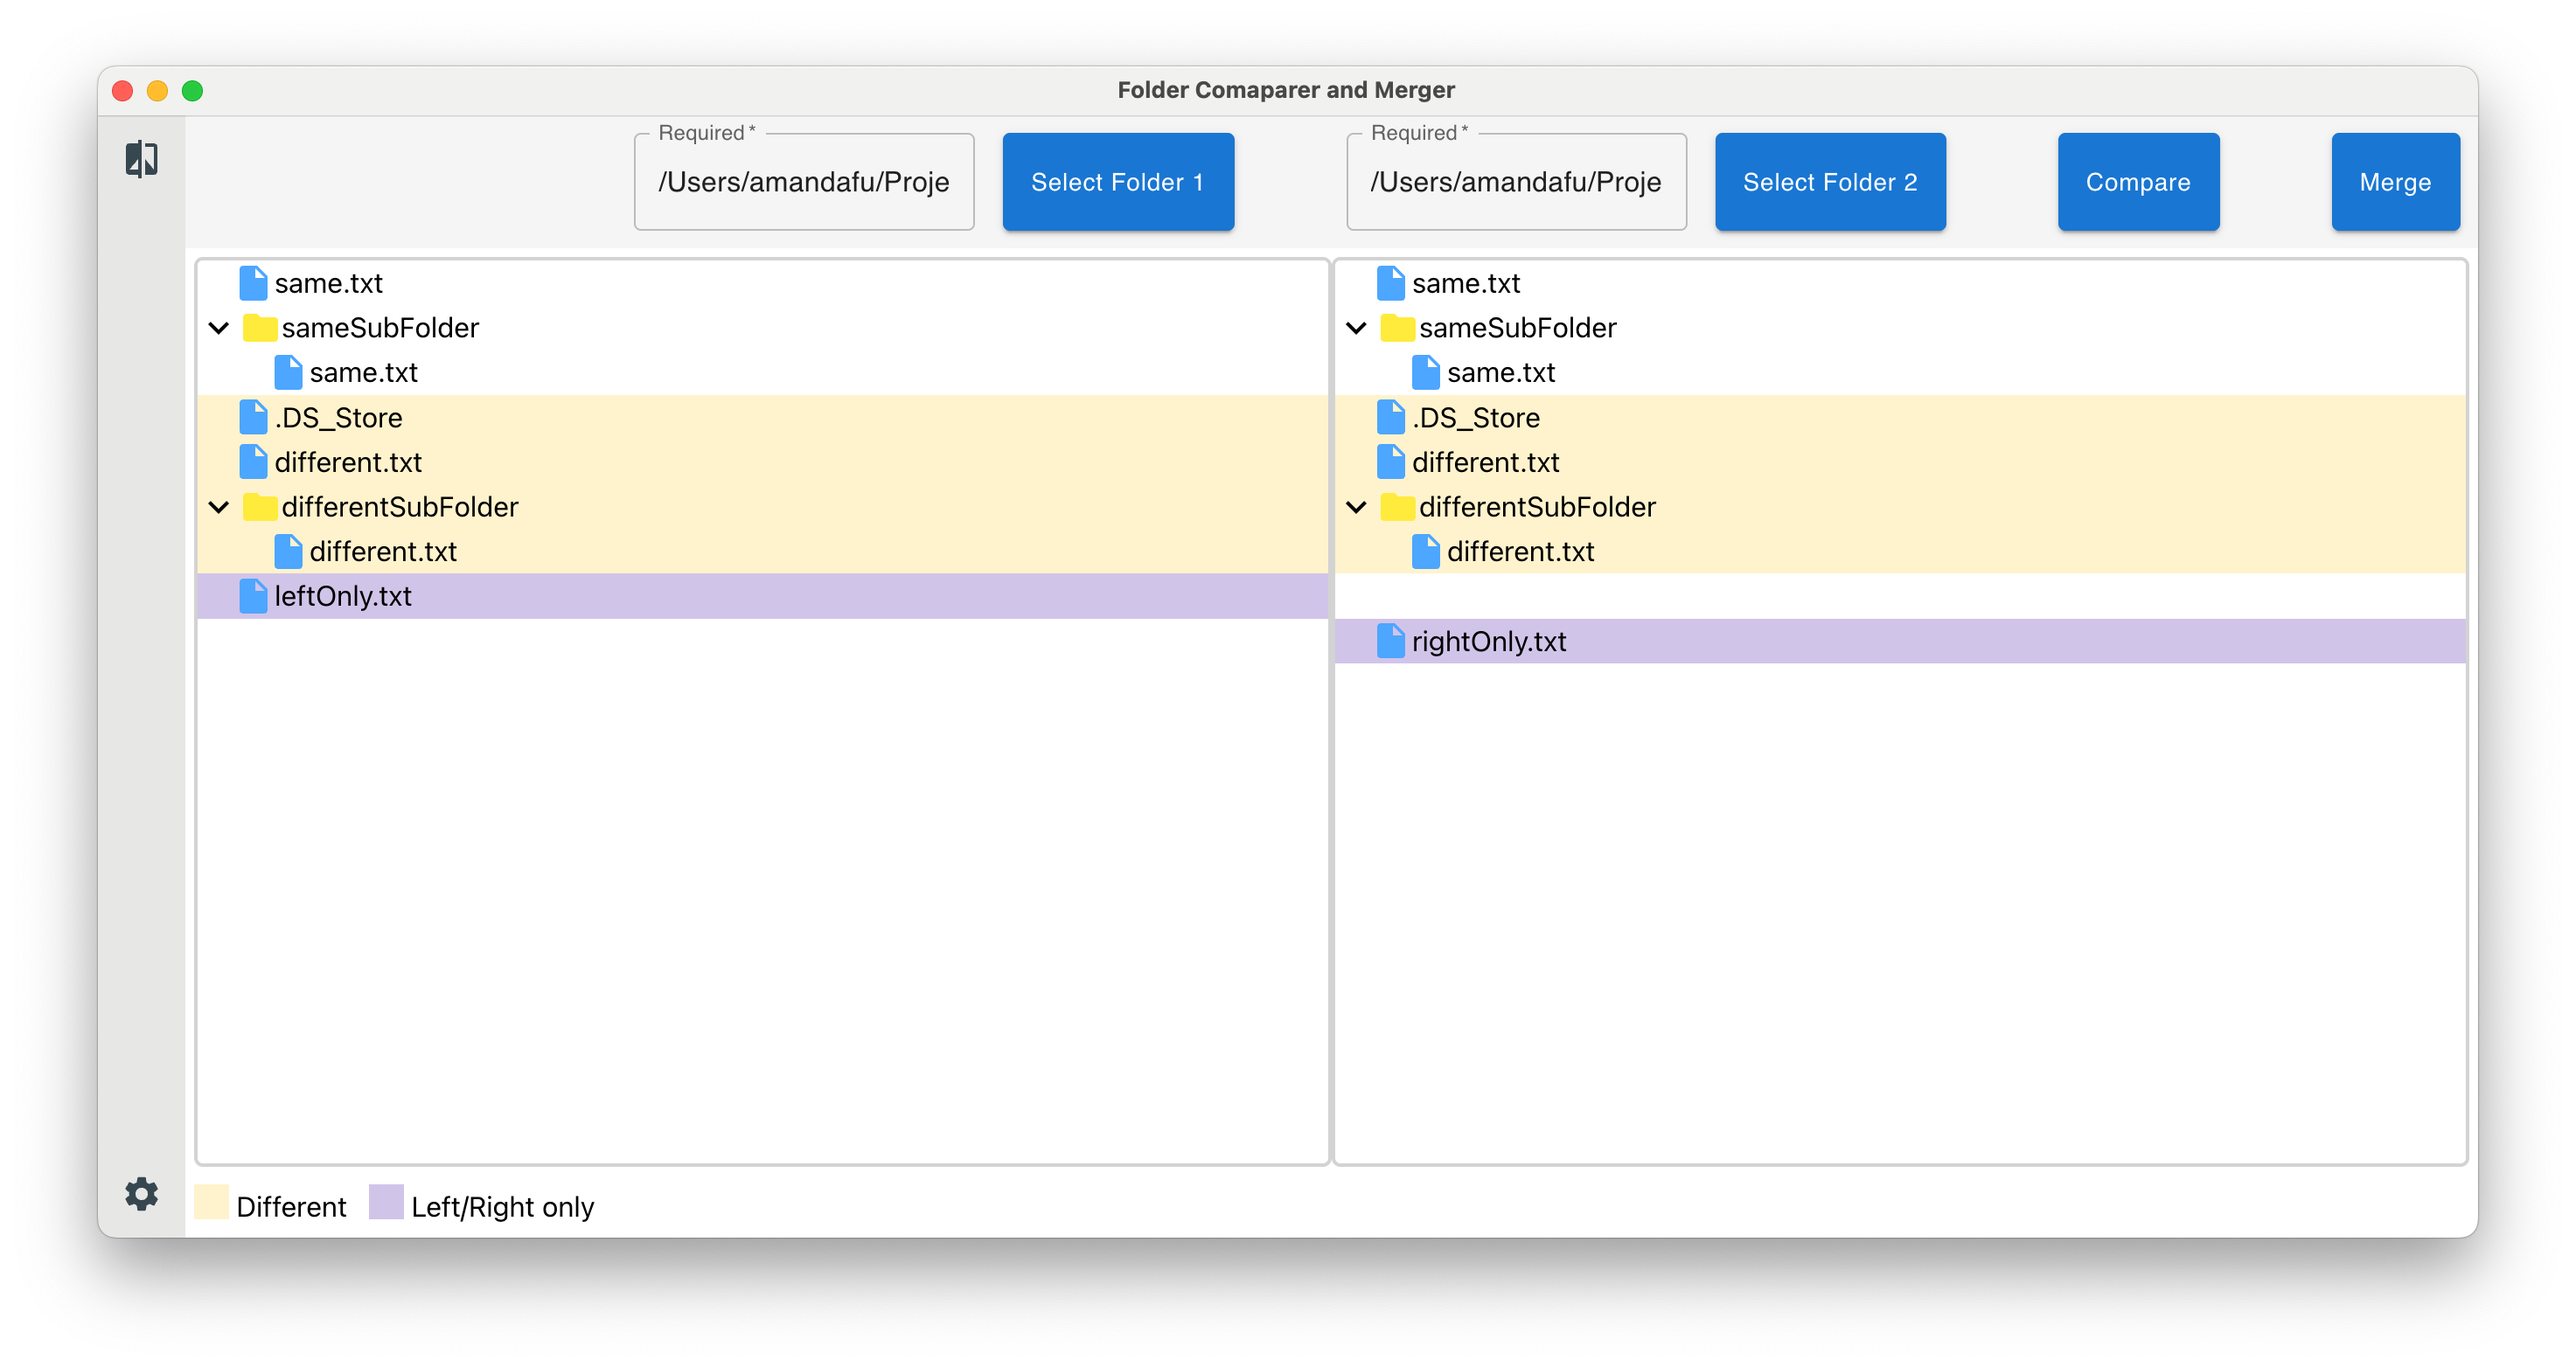
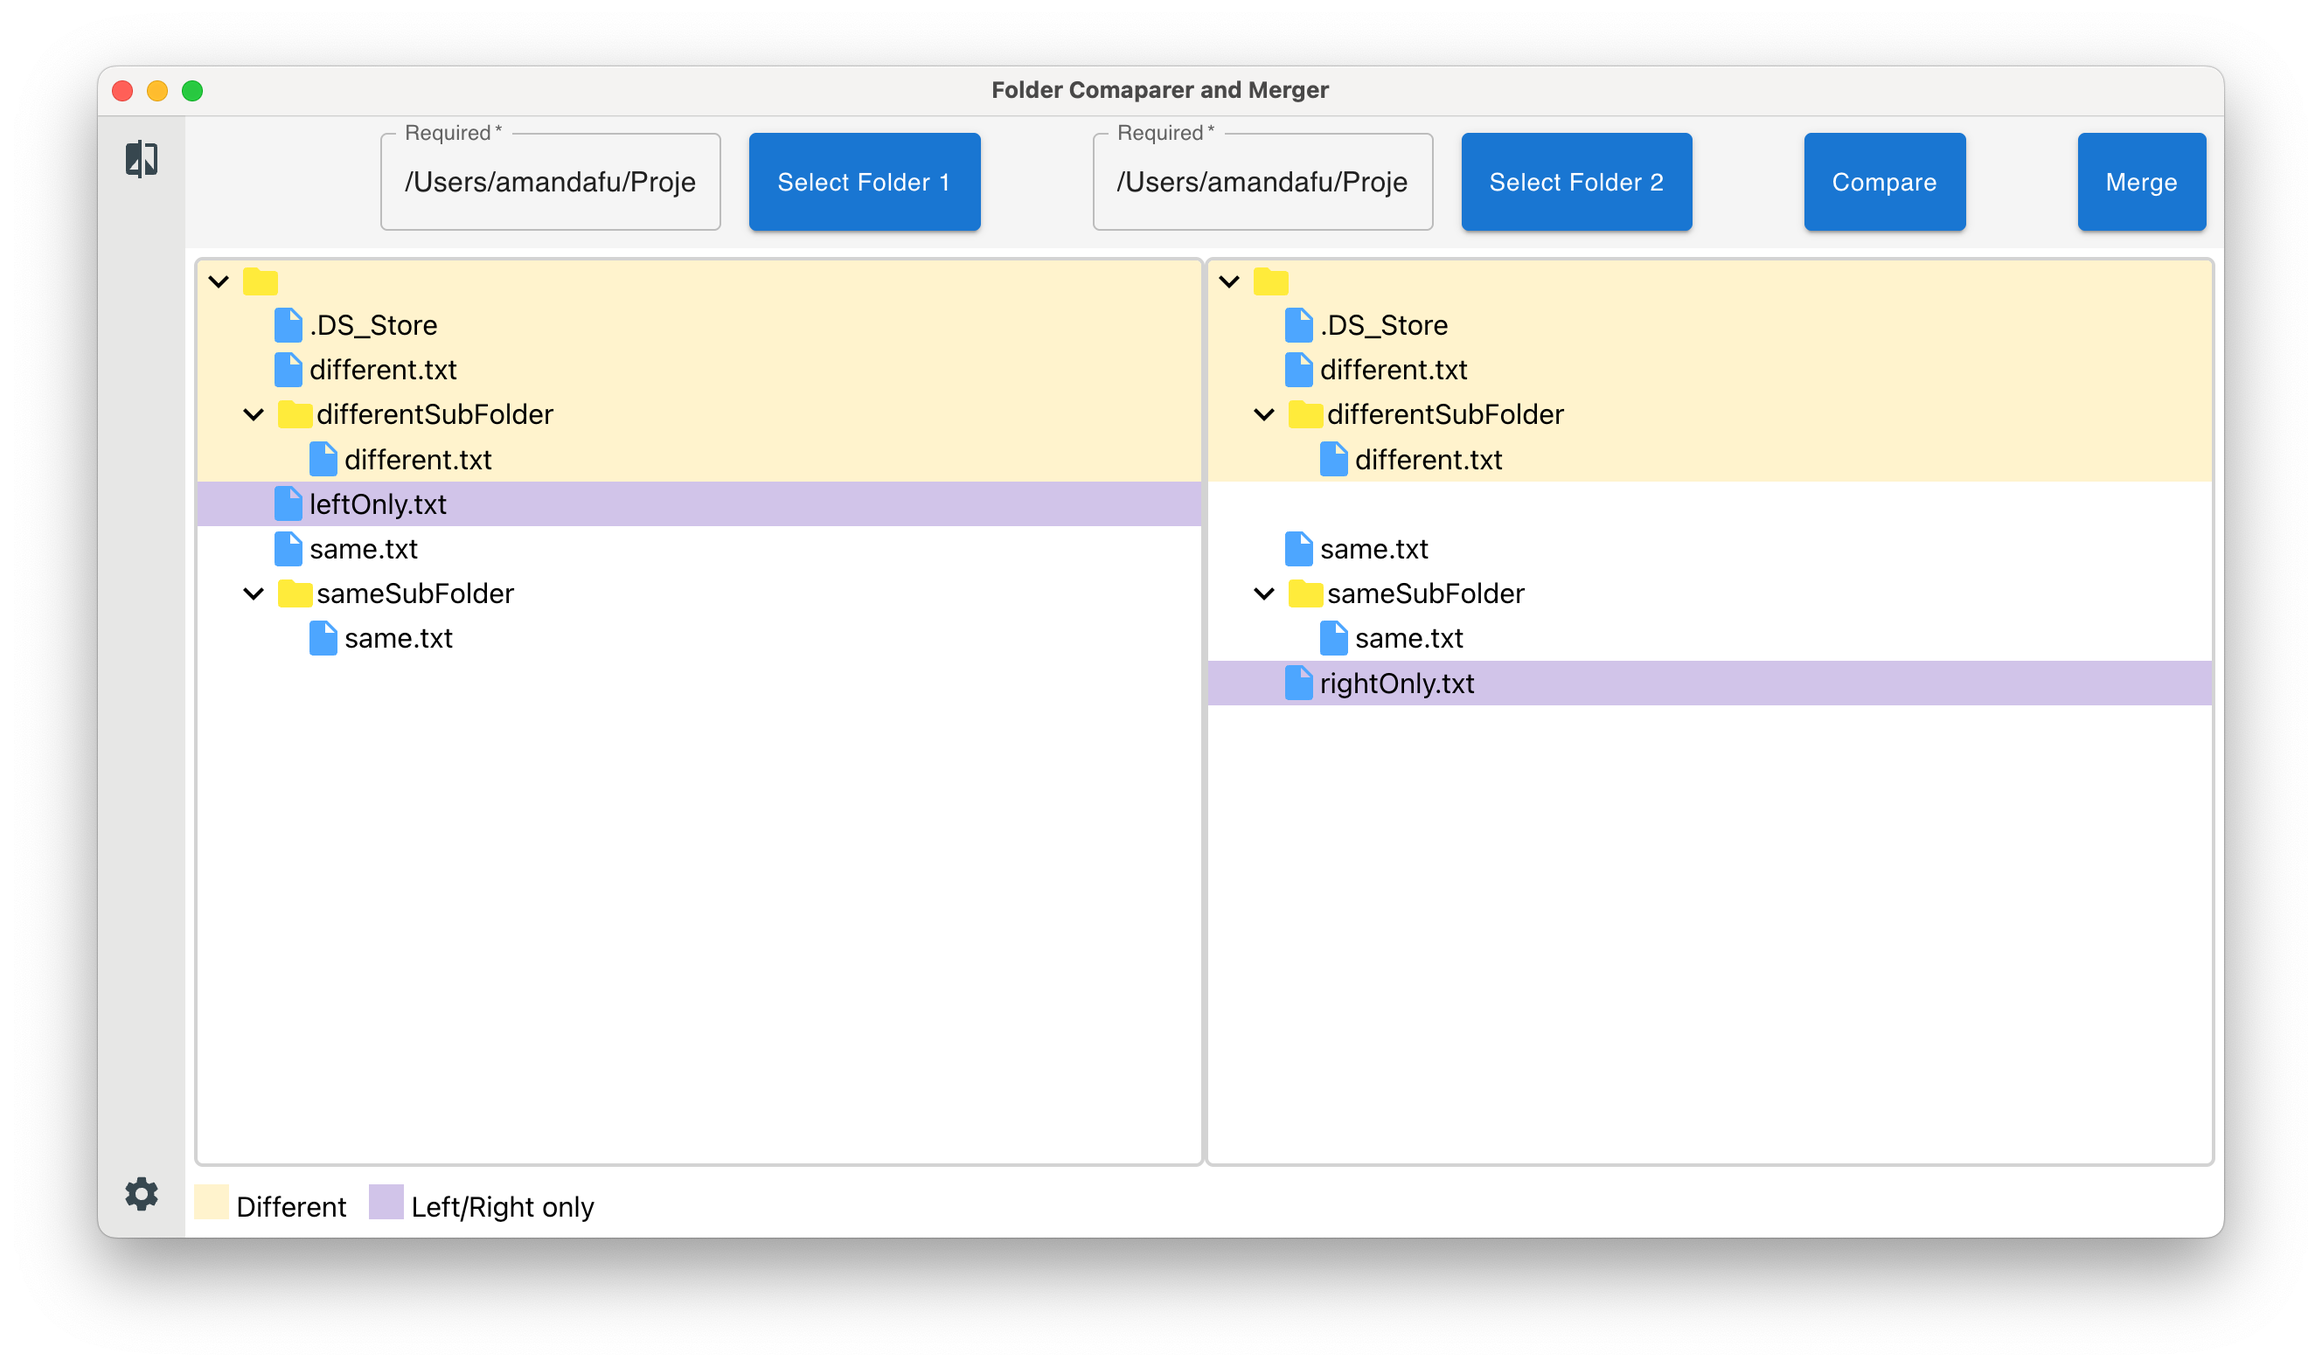
checked return paths of compareFileSystemItems

Changed region(s): [[0.0312, 0.0614, 0.9688, 0.9207], [0.0312, 0.0614, 0.0938, 0.1228]]

diff --git a/src/folder-comparer-and-merger/src/main/FolderComparer.ts b/src/folder-comparer-and-merger/src/main/FolderComparer.ts
@@ -19,7 +19,9 @@ class FolderComparer {
     leftFileSystemItem: FileSystemItem | null,
     rightFileSystemItem: FileSystemItem | null
   ): Promise<ComparisonResult> {
-    if (leftFileSystemItem == null) {
+    if (leftFileSystemItem == null && rightFileSystemItem == null) {
+      return new ComparisonResult(null, null, ComparisonResultType.SAME, null)
+    } else if (leftFileSystemItem == null && rightFileSystemItem != null) {
       if (rightFileSystemItem?.isDirectory == false) {
         return new ComparisonResult(
           leftFileSystemItem,
@@ -27,7 +29,7 @@ class FolderComparer {
           ComparisonResultType.RIGHT_ONLY,
           null
         )
-      } else if (rightFileSystemItem?.isDirectory == true) {
+      } else {
         const comparisonResult: ComparisonResult = new ComparisonResult(
           leftFileSystemItem,
           rightFileSystemItem,
@@ -45,7 +47,7 @@ class FolderComparer {
         }
         return comparisonResult
       }
-    } else if (rightFileSystemItem == null) {
+    } else if (leftFileSystemItem != null && rightFileSystemItem == null) {
       if (leftFileSystemItem?.isDirectory == false) {
         return new ComparisonResult(
           leftFileSystemItem,
@@ -53,7 +55,7 @@ class FolderComparer {
           ComparisonResultType.LEFT_ONLY,
           null
         )
-      } else if (leftFileSystemItem?.isDirectory == true) {
+      } else {
         const comparisonResult: ComparisonResult = new ComparisonResult(
           leftFileSystemItem,
           rightFileSystemItem,
@@ -76,10 +78,10 @@ class FolderComparer {
       if (leftFileSystemItem.isDirectory == false && rightFileSystemItem.isDirectory == false) {
         // if the content is the same
         const buf1 = await fs.readFile(
-          path.join(leftFileSystemItem.parentPath, leftFileSystemItem?.name)
+          path.join(leftFileSystemItem.parentPath, leftFileSystemItem.name)
         )
         const buf2 = await fs.readFile(
-          path.join(rightFileSystemItem.parentPath, rightFileSystemItem?.name)
+          path.join(rightFileSystemItem.parentPath, rightFileSystemItem.name)
         )
         if (buf1.equals(buf2)) {
           return new ComparisonResult(
@@ -99,7 +101,7 @@ class FolderComparer {
       }
       // one file one folder (tbd)
       // both directories (the first directories compared have different names, but the recursive directories compared will have same names)
-      if (leftFileSystemItem.isDirectory || rightFileSystemItem.isDirectory) {
+      else {
         const comparisonResult: ComparisonResult = new ComparisonResult(
           leftFileSystemItem,
           rightFileSystemItem,
@@ -133,12 +135,6 @@ class FolderComparer {
         return comparisonResult
       }
     }
-    return new ComparisonResult(
-      leftFileSystemItem,
-      rightFileSystemItem,
-      ComparisonResultType.SAME,
-      null
-    )
   }
 
   public static async compareFolders(
